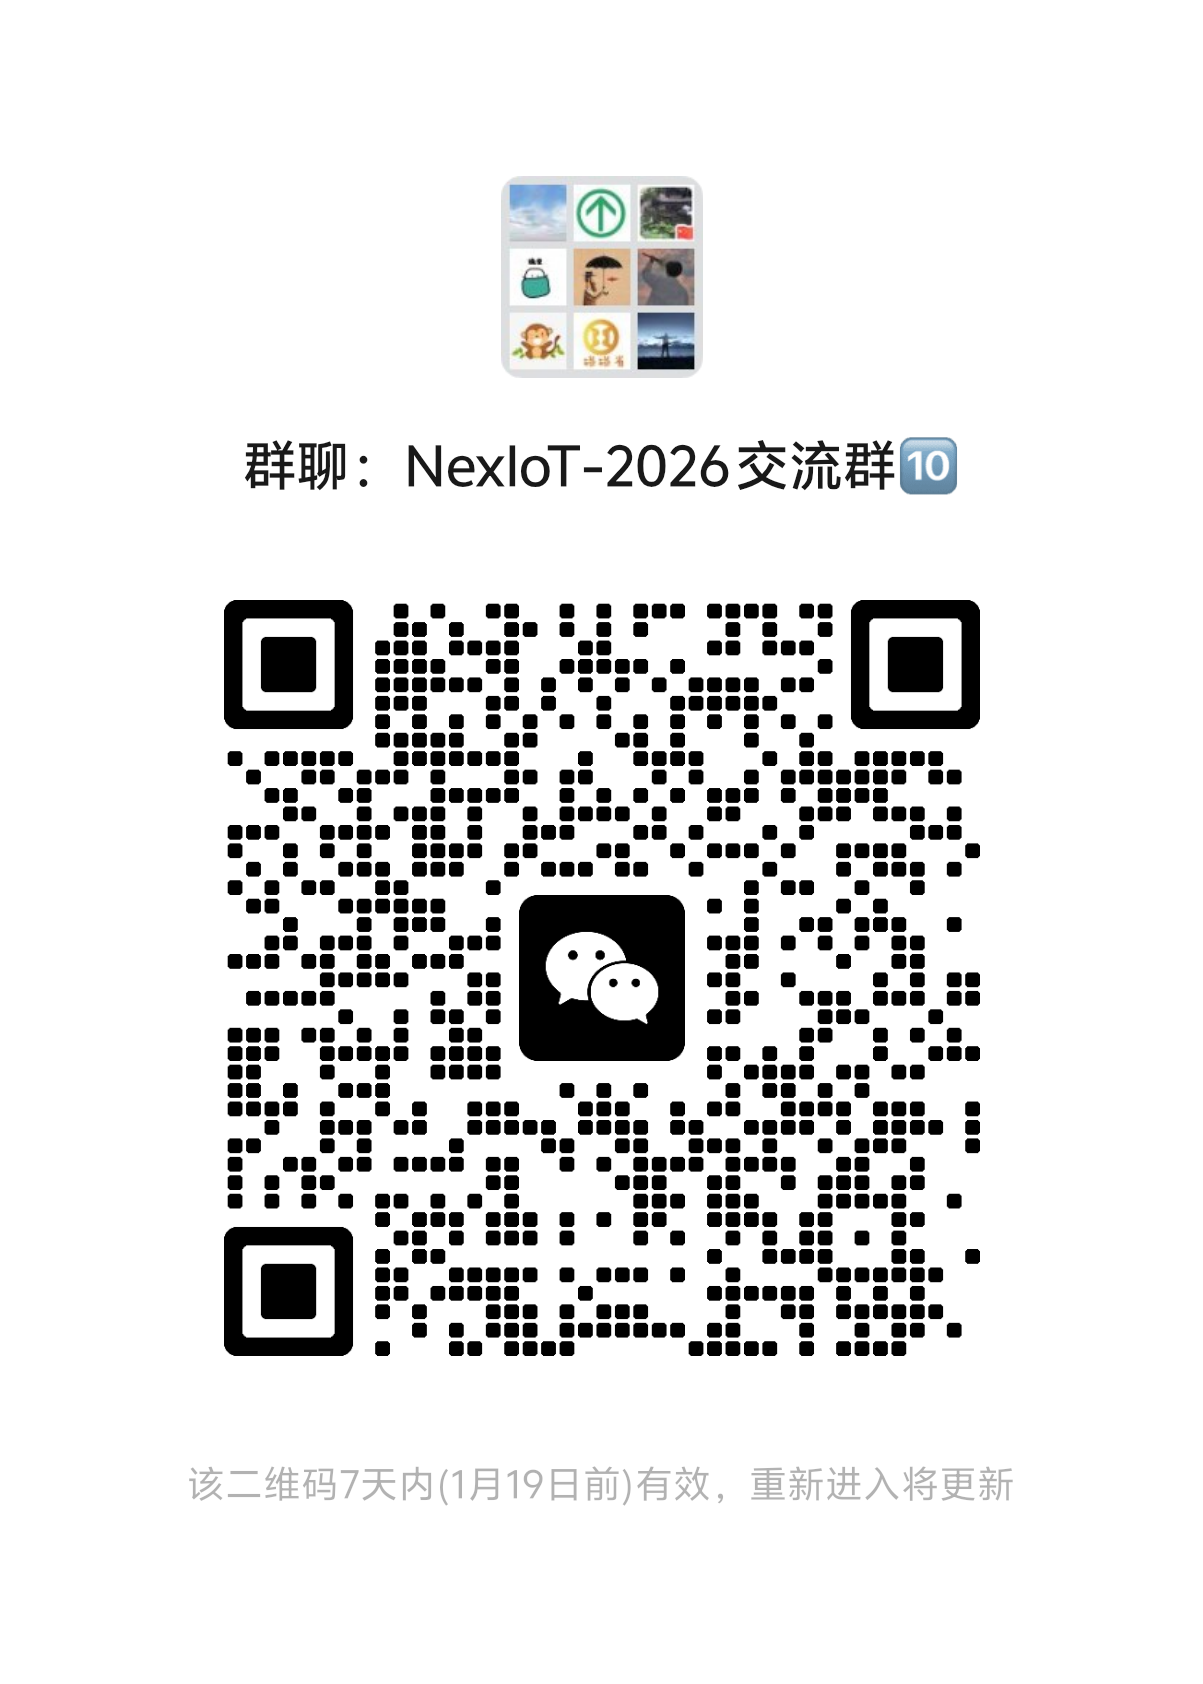
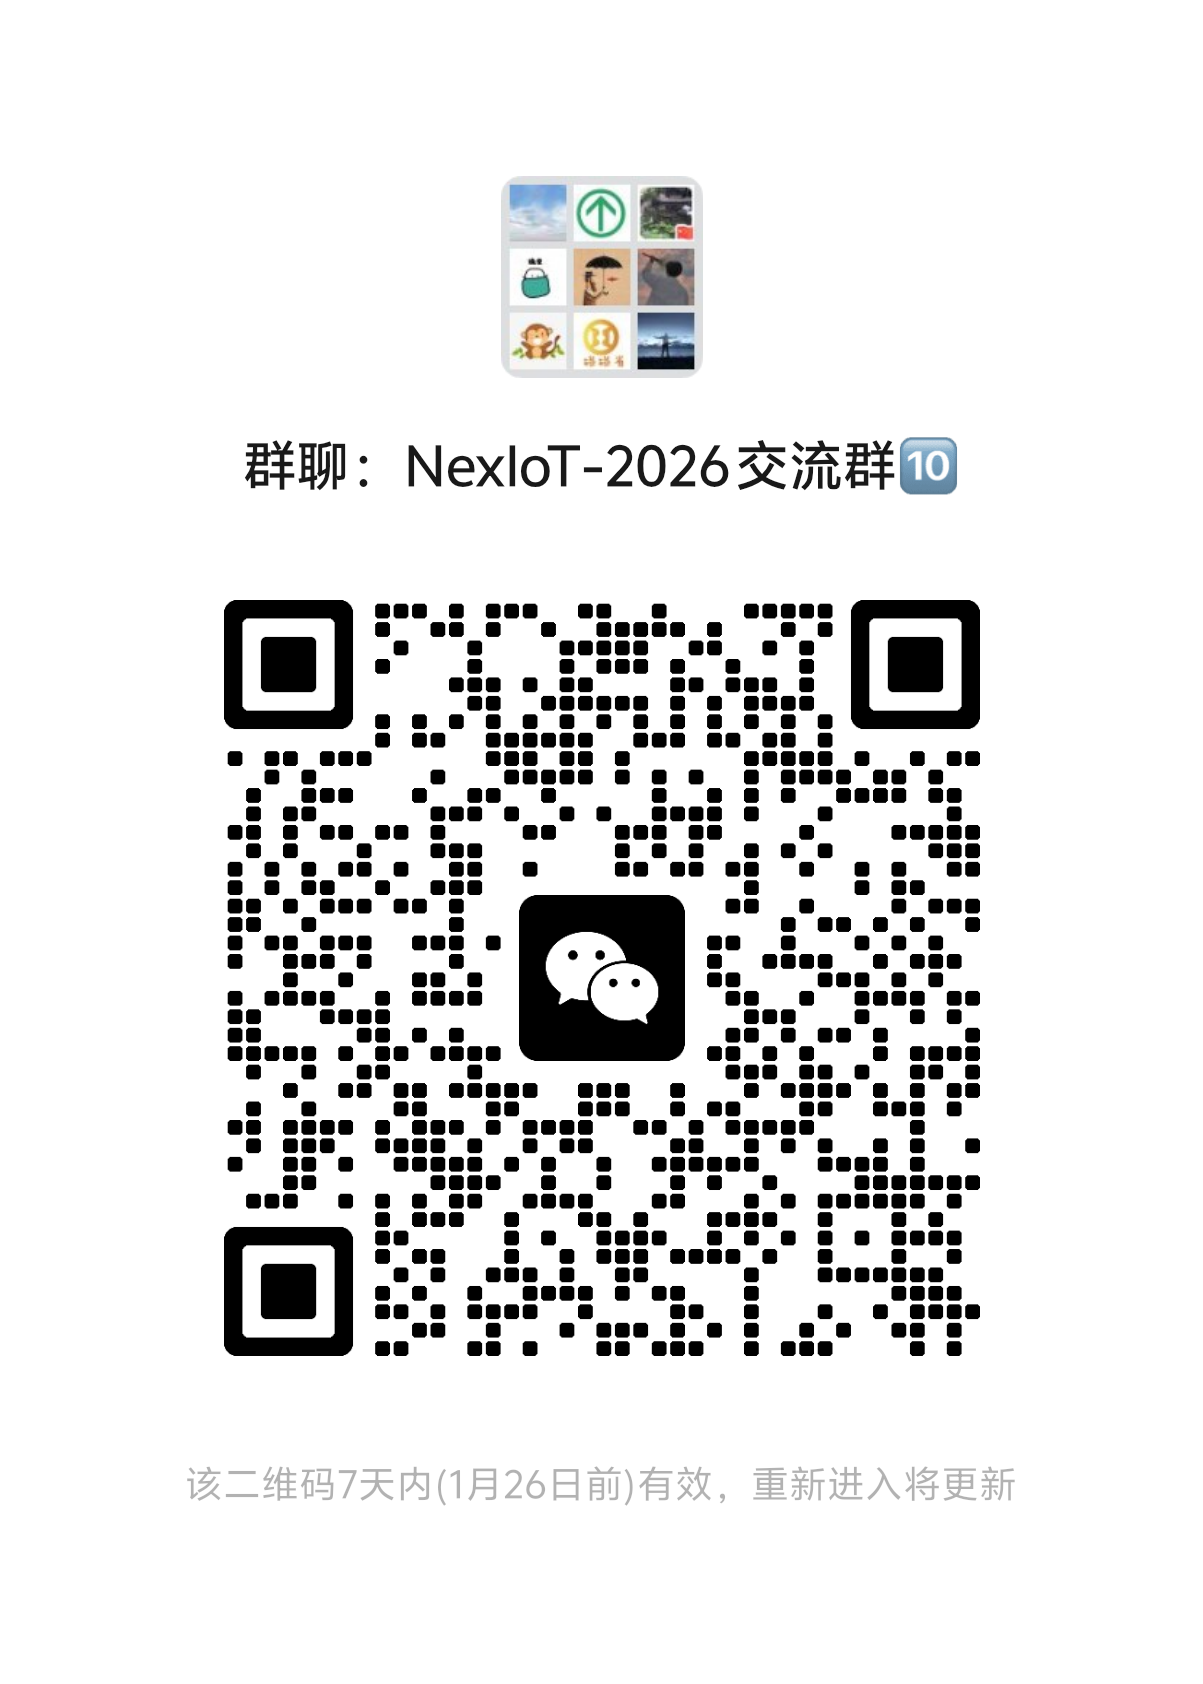
docs(readme): 最新微信群

diff --git a/README.md b/README.md
@@ -184,13 +184,13 @@
 
 #### 📺 产品管理
 
-|                                                         |                                                                |
-|---------------------------------------------------------|----------------------------------------------------------------|
-| ![产品列表](/__MACOSX/shot/260118/product/list.png)         | ![产品详情](/__MACOSX/shot/260118/product/create.png)              |
-| ![标准物模型](/__MACOSX/shot/260118/product/metadata-01.png) | ![物模型字段](/__MACOSX/shot/260118/product/metadata-02.png)        |
-| ![物模型搜索](/__MACOSX/shot/260118/product/create-metadata.png)     | ![功能创建](/__MACOSX/shot/260118/product/create-metadata-fun.png) |
-| ![连接信息](/__MACOSX/shot/260118/product/connect.png)          | ![网络管理](/__MACOSX/shot/260118/product/connect-mqtt.png)    |
-| ![报警管理](/__MACOSX/shot/260118/product/stand-metadata-2.png) | ![产品详情](/__MACOSX/shot/260118/product/stand-metadata-1.png)        |
+|                                                         |                                                             |
+|---------------------------------------------------------|-------------------------------------------------------------|
+| ![产品列表](/__MACOSX/shot/260118/product/list.png)         | ![产品详情](/__MACOSX/shot/260118/product/detail.png)           |
+| ![标准物模型](/__MACOSX/shot/260118/product/create.png) | ![物模型字段](/__MACOSX/shot/260118/product/metadata-01.png)     |
+| ![物模型搜索](/__MACOSX/shot/260118/product/create-metadata.png)     | ![功能创建](/__MACOSX/shot/260118/product/metadata-02.png)      |
+| ![连接信息](/__MACOSX/shot/260118/product/connect.png)          | ![网络管理](/__MACOSX/shot/260118/product/connect-mqtt.png)     |
+| ![报警管理](/__MACOSX/shot/260118/product/stand-metadata-2.png) | ![产品详情](/__MACOSX/shot/260118/product/stand-metadata-1.png) |
 
 #### 📺 设备管理
 
